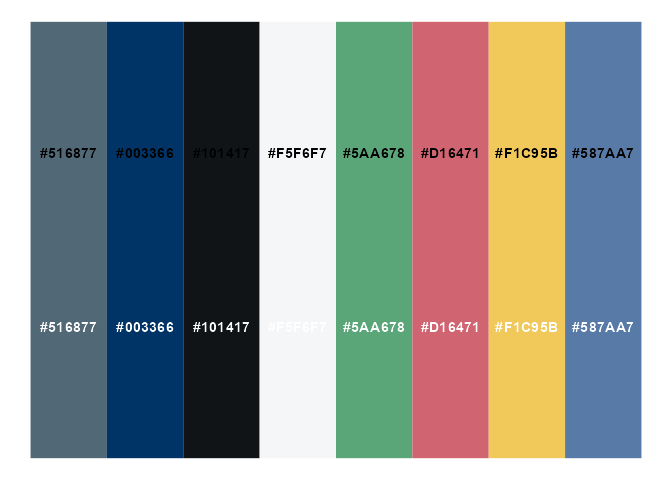
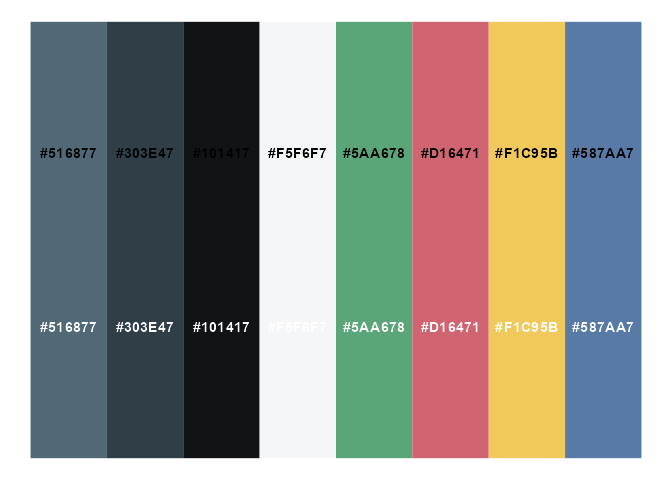
Fixed hex code of header colour

Changed region(s): [[0.1562, 0.0312, 0.2812, 0.9688]]

diff --git a/README.md b/README.md
@@ -46,7 +46,7 @@ which are based on the light blue and the thunder color.
 
 ``` r
 shambhala_palette <- c("Light Text" = "#516877", # to be used for axes, text that is less important
-                      "Header Text" = "#003366", # To be used for headers on the website
+                      "Header Text" = "#303E47", # To be used for headers on the website
                       "Dark Text" = "#101417") # To be used in plot descriptions and the body of the text on the website
 ```
 
@@ -58,7 +58,7 @@ we can use a related color for grid lines:
 
 ``` r
 shambhala_palette <- c("Light Text" = "#516877", # to be used for axes, text that is less important
-                      "Header Text" = "#003366", # To be used for headers on the website
+                      "Header Text" = "#303E47", # To be used for headers on the website
                       "Dark Text" = "#101417",
                       "Grid" = "#F5F6F7")
 ```
@@ -69,7 +69,7 @@ Here is the outcome:
 
 ``` r
 shambhala_palette <- c("Light Text" = "#516877", # to be used for axes, text that is less important
-                      "Header Text" = "#003366", # To be used for headers on the website
+                      "Header Text" = "#303E47", # To be used for headers on the website
                       "Dark Text" = "#101417",
                       "Grid" = "#F5F6F7",
                       "Green" = "#5AA678",
